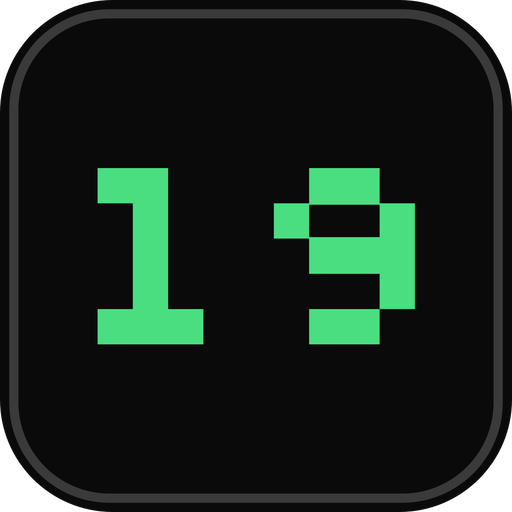
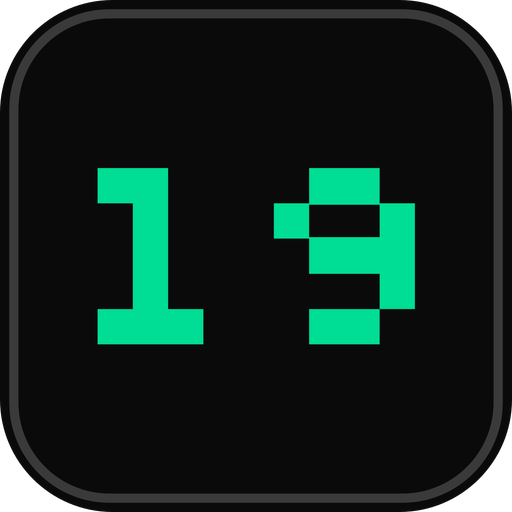
Use Kalshi's exact green for the accent color
Dark theme: #00DD94 ("Darkmode Green" from Kalshi's brand kit).
Light theme: #00B67A ("Lightmode Green"). Regenerated the app icon to
match.

Changed region(s): [[0.5312, 0.3125, 0.8125, 0.6875], [0.1875, 0.3125, 0.4062, 0.6875]]

diff --git a/src/app/globals.css b/src/app/globals.css
@@ -15,8 +15,8 @@
   --color-chalk: #f0f0ee;
   --color-chalk-dim: #a3a3a1;
   --color-chalk-faint: #727270;
-  --color-led: #4ade80;
-  --color-led-bg: #16261b;
+  --color-led: #00dd94;
+  --color-led-bg: #132420;
   --color-win: #4ecb8c;
   --color-win-bg: #17281f;
   --color-caution: #e08a3c;
@@ -37,8 +37,8 @@
   --color-chalk: #19181a;
   --color-chalk-dim: #55534f;
   --color-chalk-faint: #85827c;
-  --color-led: #15803d;
-  --color-led-bg: #e6f7ea;
+  --color-led: #00b67a;
+  --color-led-bg: #e3f9f1;
   --color-win: #1f9d5c;
   --color-win-bg: #e3f7ec;
   --color-caution: #b4610f;
